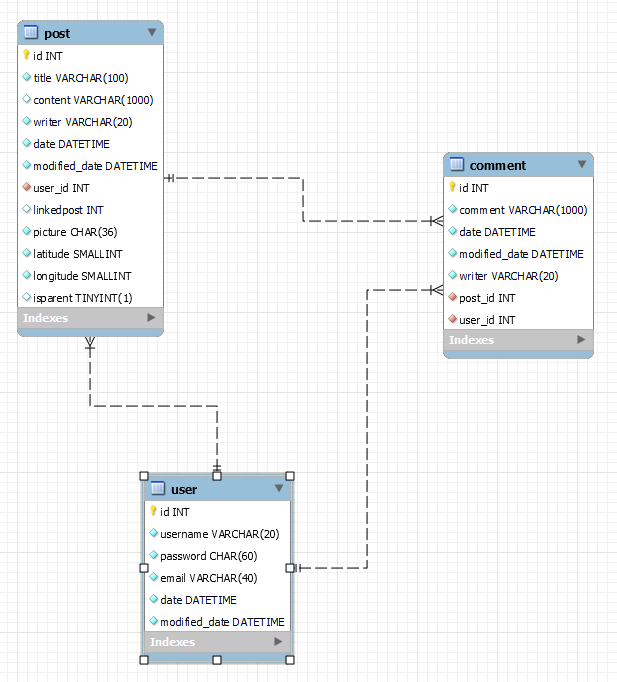
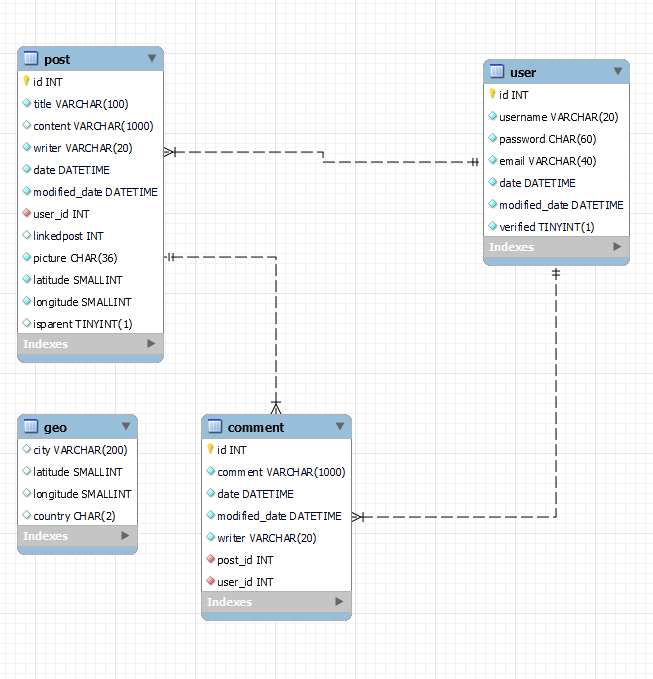
README is modified

diff --git a/src/main/java/com/EarthSandwich/service/UserServiceImp.java b/src/main/java/com/EarthSandwich/service/UserServiceImp.java
@@ -53,13 +53,21 @@ public class UserServiceImp implements UserService {
 					"username \'" + user.getUsername() + "\' is already taken");
 		}
 
-		if (userDAO.findByEmail(user.getEmail()) != null && user.getVerified() == 1) {
-			throw new ResponseStatusException(HttpStatus.BAD_REQUEST, "email is already registered");
-		}
-
 		if (!passwordAction.validatePass(user.getPassword())) {
 			throw new ResponseStatusException(HttpStatus.BAD_REQUEST,
 					"Password must contain at least one number, one uppercase, one lowercase, one special character (!@#$%&), and needs to be between 8-16 characters long");
+		}
+
+		User existedUser = userDAO.findByEmail(user.getEmail());
+
+		if (existedUser != null) {
+
+			if (existedUser.getVerified() == 1) {
+				throw new ResponseStatusException(HttpStatus.BAD_REQUEST, "email is already registered");
+			} else {
+				userDAO.deleteById(existedUser.getId());
+			}
+
 		}
 
 		user.setPassword(passwordAction.encryptPass(user.getPassword()));

diff --git a/src/test/java/com/EarthSandwich/EarthSandwichApplicationTests.java b/src/test/java/com/EarthSandwich/EarthSandwichApplicationTests.java
@@ -1,13 +1,24 @@
 package com.EarthSandwich;
 
-import org.junit.jupiter.api.Test;
-import org.springframework.boot.test.context.SpringBootTest;
+import java.io.IOException;
 
+import org.junit.jupiter.api.Test;
+import org.slf4j.Logger;
+import org.slf4j.LoggerFactory;
+import org.springframework.boot.test.context.SpringBootTest;
+import org.springframework.test.context.TestPropertySource;
+
+import ai.djl.ModelException;
+import ai.djl.translate.TranslateException;
+
+@TestPropertySource(locations = "classpath:/test.properties")
 @SpringBootTest
 class EarthSandwichApplicationTests {
+	private static final Logger logger = LoggerFactory.getLogger(EarthSandwichApplicationTests.class);
 
 	@Test
-	void contextLoads() {
+	void runTest() throws IOException, ModelException, TranslateException {
+
 	}
 
 }

diff --git a/src/main/java/com/EarthSandwich/service/PostServiceImp.java b/src/main/java/com/EarthSandwich/service/PostServiceImp.java
@@ -69,7 +69,7 @@ public class PostServiceImp implements PostService {
 			throw new ResponseStatusException(HttpStatus.BAD_REQUEST, "Cannot upload empty file");
 		}
 
-		if (postDTO.getPicture().getSize() > 50000) {
+		if (postDTO.getPicture().getSize() > 55000) {
 			throw new ResponseStatusException(HttpStatus.BAD_REQUEST, "image cannot be more than 50KB");
 		}
 
@@ -189,8 +189,6 @@ public class PostServiceImp implements PostService {
 					post.getContent(), stringUrl, post.getLatitude(), post.getLongitude(), tempChildPost,
 					post.getM_date());
 			return tempParentPost;
-		} else {
-
 		}
 		final String stringUrl = String.format("%s/%s", friendlyURL, post.getPicture());
 		PostResponseDTO tempPost = new PostResponseDTO(post.getId(), post.getTitle(), post.getWriter(),

diff --git a/src/main/java/com/EarthSandwich/entity/Comment.java b/src/main/java/com/EarthSandwich/entity/Comment.java
@@ -41,12 +41,12 @@ public class Comment {
 	@Column(name = "modified_date")
 	private LocalDateTime m_date;
 
-	@ManyToOne(fetch = FetchType.LAZY, optional = false)
+	@ManyToOne(fetch = FetchType.EAGER, optional = false)
 	@JoinColumn(name = "post_id", nullable = false)
 	private Post post;
 
 	@JsonBackReference
-	@ManyToOne(fetch = FetchType.LAZY, optional = false)
+	@ManyToOne(fetch = FetchType.EAGER, optional = false)
 	@JoinColumn(name = "user_id", nullable = false)
 	private User user;
 

diff --git a/src/main/java/com/EarthSandwich/entity/Post.java b/src/main/java/com/EarthSandwich/entity/Post.java
@@ -69,7 +69,7 @@ public class Post {
 	private boolean isParent;
 
 	@JsonBackReference
-	@ManyToOne(fetch = FetchType.LAZY, optional = false)
+	@ManyToOne(fetch = FetchType.EAGER, optional = false)
 	@JoinColumn(name = "user_id", nullable = true)
 	private User user;
 

diff --git a/README.md b/README.md
@@ -128,6 +128,49 @@ Udemy를 통하여 독학으로 Springframework을 배웠으며 독학후 제작
 ![comment Schema](./RMimage/comment.png)
 ![comment API](./RMimage/commentapi.png)
 
+# 화면
+
+## 회원가입
+
+![회원가입](./RMimage/registerform.png)
+
+## verification email
+
+![verification email](./RMimage/emailverification.png)
+회원가입을 하면 이메일 인증 이메일을 발송합니다.
+
+## 인증 완료 화면
+
+![인증완료화면](./RMimage/emailverification2.png)
+
+## 로그인
+
+![로그인](./RMimage/loginform.png)
+
+## 로그인 후 jwt 발급
+
+![로그인](./RMimage/cookie.png)
+유저가 로그인후 jwt을 발급받습니다. jwt는 httponly 이기 때문에 javascript로 접근이 불가능하고 secured이기에 ssl를 통하여서 전달 받습니다.
+
+## post 작성
+
+![로그인](./RMimage/postform.png)
+유저가 jwt 발급받은후에 post 작성을 할 수 있습니다. postform에서는 자신의 좌표와 그 좌표와 정반대되는 좌표 (antipode)을 보여줍니다. 만약에 jwt 토큰이 없는 익명의 유저가 post작성을 시도할 경우 "unauthorized user attempt" 메시지를 alert로 보여줍니다.
+
+## 작성된 post
+
+![로그인](./RMimage/postui.png)
+작성된 post는 작성한 유저 좌표의 antipode를 보여주고 antipode와 가까운 도시들을 geo table부터 검색하여 보여줍니다.
+
+## 완성된 지구샌드위치 post
+
+![로그인](./RMimage/completedpost.png)
+
+## 완성된 지구샌드위치 post 조회
+
+![로그인](./RMimage/completepost2.png)
+완성된 지구샌드위치 post를 조회 할 경우 사진에 마우스를 hover 할 경우 해당 post를 작성한 유저의 좌표가 overlay형식으로 보여집니다.
+
 # ETC
 
 ## 추가해야할 기능들
